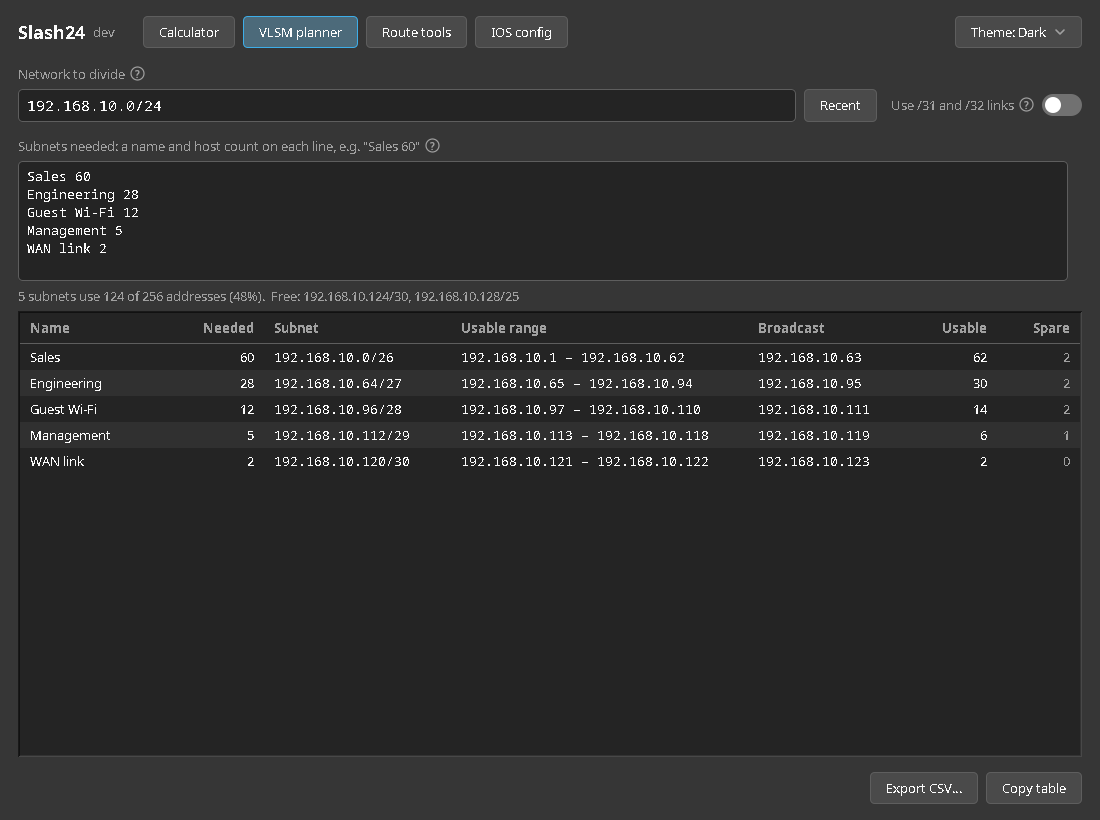
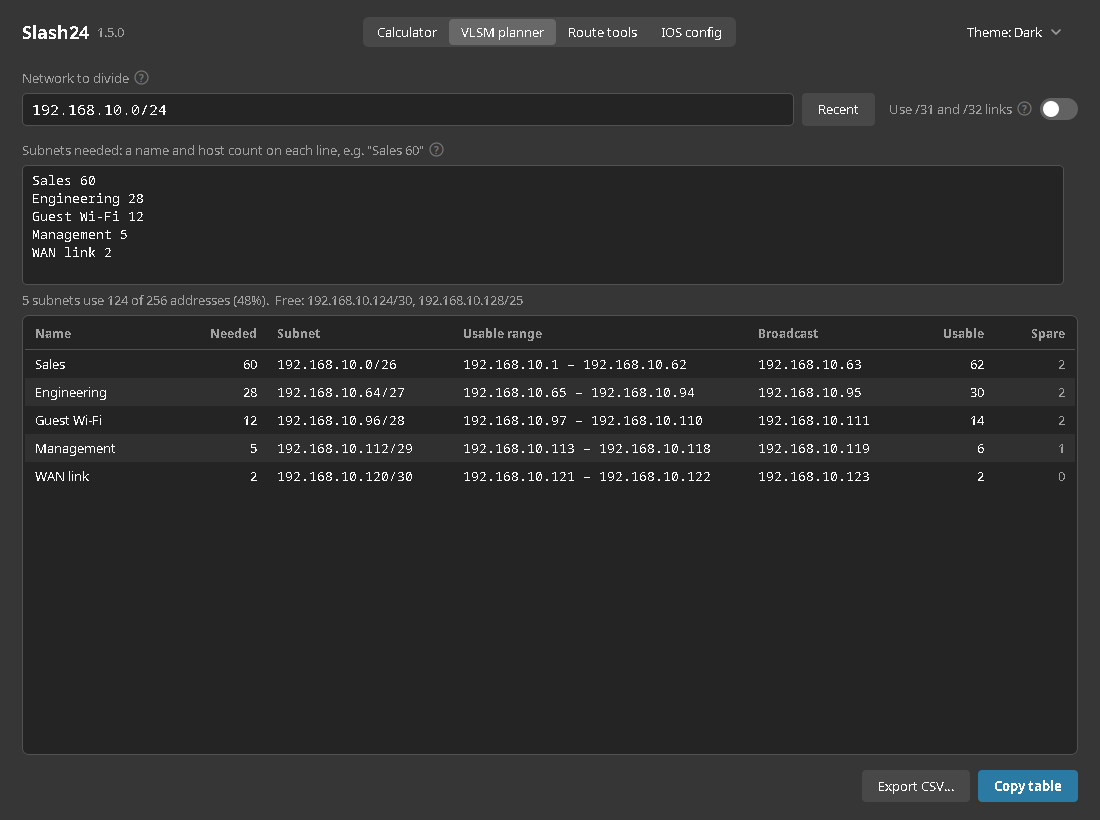
Release 1.5.0: a cleaner look
- Segmented page switcher and option choices with a gliding selection
- One primary action per page; quieter buttons, cards for results and tables
- Animations follow Plasma's animation speed setting
- Tables lose the bevelled outline that hid two edges in light mode
- README screenshots updated

diff --git a/CHANGELOG.md b/CHANGELOG.md
@@ -4,6 +4,27 @@ All notable changes to Slash24 (called Subnet Calculator before 1.4.0). The form
 [Keep a Changelog](https://keepachangelog.com/en/1.1.0/) and versions follow
 [Semantic Versioning](https://semver.org/).
 
+## [1.5.0] - 2026-11-22
+
+### Changed
+- **A cleaner look.** Every page has been restyled to be calmer and easier to scan:
+  - The page tabs are one segmented control in the centre of the header; a raised pill marks the
+    current page and glides to the next one.
+  - Choices on the IOS config page and the Route tools mode switch use the same segmented style.
+  - Each page has one main action filled with your accent colour (**Copy results**, **Copy table**
+    or **Copy config**); other buttons are quieter, with no outlines.
+  - The calculator's results sit together on a card, and tables are rounded cards with quieter
+    headers.
+  - Text fields have a soft outline at rest and an accent ring while you type; invalid input is
+    still outlined in red.
+  - Focus rings only appear when you move around with the keyboard, not after clicking.
+  - On/off switches glide, and the **?** help icons are quieter until you hover them.
+- Animations follow Plasma's animation speed setting, and are off when animations are set to
+  instant. They never overshoot, and a second click mid-motion redirects them smoothly.
+
+### Fixed
+- Tables no longer have a bevelled outline whose bottom and right edges disappeared in light mode.
+
 ## [1.4.2] - 2026-11-21
 
 ### Fixed
@@ -252,6 +273,7 @@ All notable changes to Slash24 (called Subnet Calculator before 1.4.0). The form
   clipboard, a dark/light switch matched to the KDE colour scheme, and a per-user installer with an
   application-menu entry.
 
+[1.5.0]: https://github.com/digitaladministrator/slash24/compare/v1.4.2...v1.5.0
 [1.4.2]: https://github.com/digitaladministrator/slash24/compare/v1.4.1...v1.4.2
 [1.4.1]: https://github.com/digitaladministrator/slash24/compare/v1.4.0...v1.4.1
 [1.4.0]: https://github.com/digitaladministrator/slash24/compare/v1.3.4...v1.4.0

diff --git a/README.md b/README.md
@@ -14,7 +14,7 @@ written in plain Java with **no dependencies**. It reads your KDE colour scheme 
 | Route tools | ![Route tools, dark](docs/tools-dark.png) | ![Route tools, light](docs/tools-light.png) |
 | IOS config | ![IOS config, dark](docs/config-dark.png) | ![IOS config, light](docs/config-light.png) |
 
-Current version: **1.4.2**. See [CHANGELOG.md](CHANGELOG.md) for what changed in each release.
+Current version: **1.5.0**. See [CHANGELOG.md](CHANGELOG.md) for what changed in each release.
 
 ## Features
 
@@ -86,6 +86,8 @@ that setting out of the config, and "auto" picks a value for you.
 - **Theme** dropdown: *Match system* follows the Plasma colour scheme and accent colour live,
   including changes made while the app is open; or pick *Light* or *Dark*. The choice is remembered.
 - **Help on every setting:** hover the **?** next to a setting for a short description and an example.
+- Animations (the page switcher, segmented choices and switches) follow Plasma's animation speed
+  setting, and turn off completely when animations are set to instant.
 - **Recent** (or the Down arrow) on the network fields lists the last 10 networks you used.
 - Errors wait until you pause typing, so half-typed input like `192.168.` isn't flagged straight away.
 
